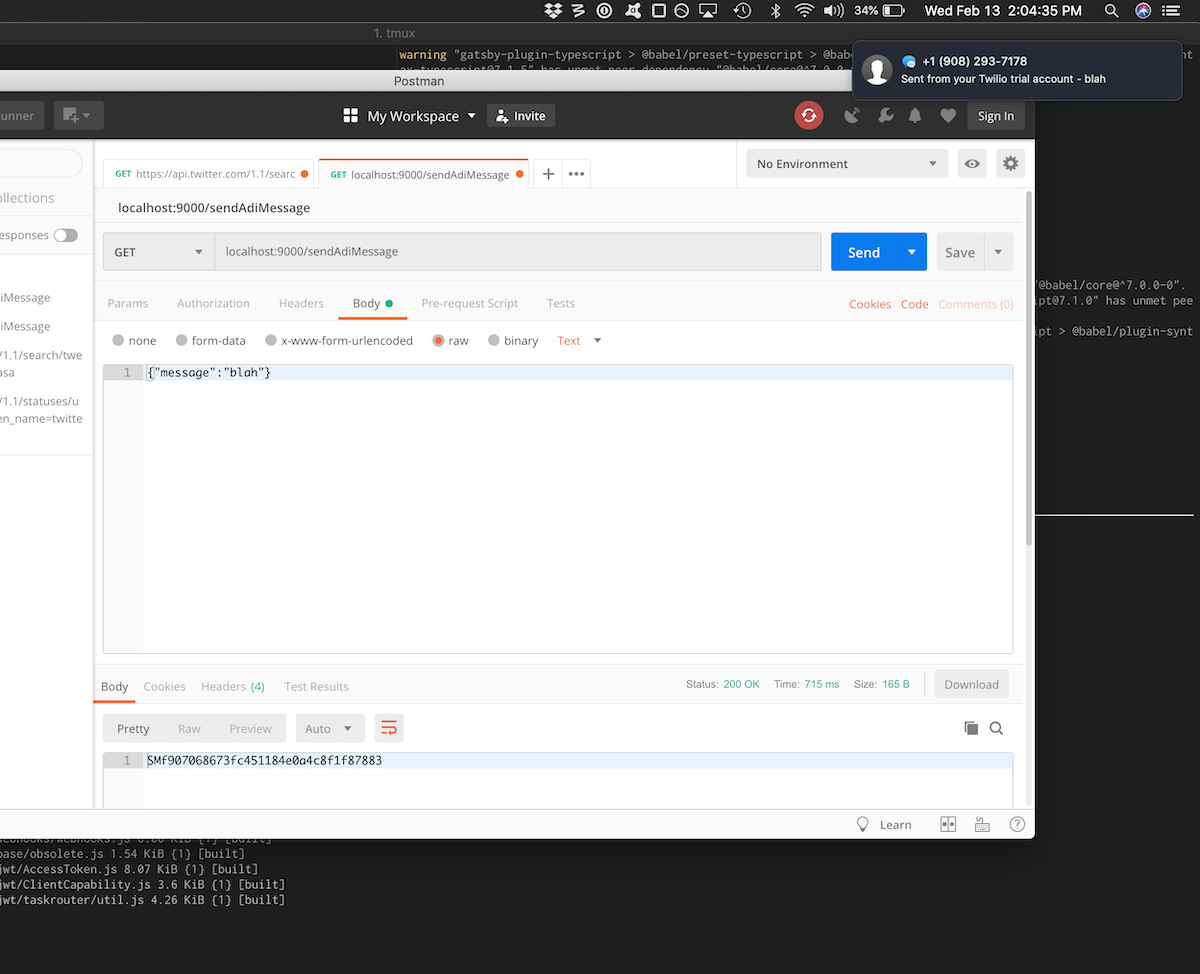
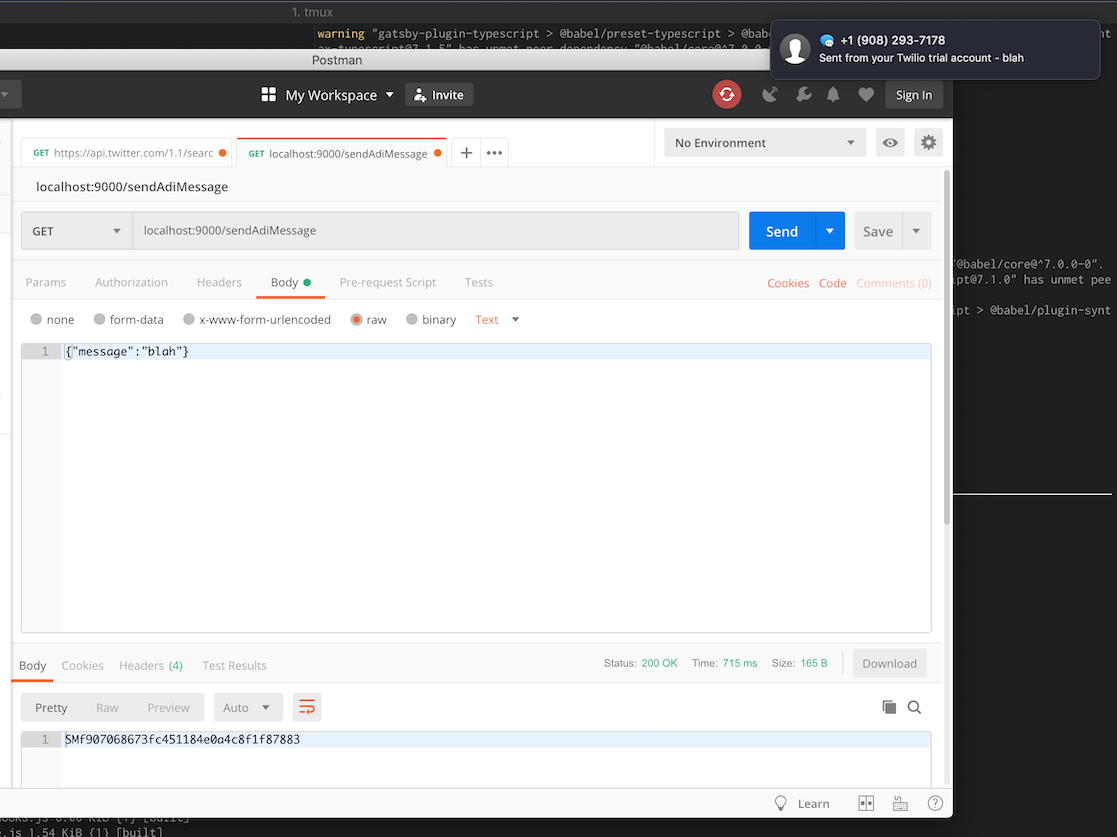
meditation 1 blogging

diff --git a/content/blog/itp/electronic-rituals/meditation-1.md b/content/blog/itp/electronic-rituals/meditation-1.md
@@ -5,20 +5,34 @@ date: "2019-02-13"
 
 ### Walking rituals for creatives
 
-My first meditation explores the ritual act of walking as a creative tool. Walking around helps me (and many others) think better when faced with creative blocks. It allows us to make new connections, process/digest our ideas, develop an internal dialogue, and get inspired by serendipitous events in the world.
+My first meditation explores the ritual act of walking as a creative tool. Walking around helps me (and many others) think better when faced with creative blocks. It allows us to make new connections, process/digest our ideas, develop an internal dialogue, and get inspired by serendipitous events in the world. There is a well-established ritualized practice of walking meditation which I first read about in _The Wisdom of Yoga_ last year. This practice aims to bring mindfulness to the practitioner; for this assignment, my goals are a little different...
 
-I have imagined and prototyped a technology-enabled extension to this ritual which allows my friends to send me anonymous messages as guidance or inspiration on my creative walks. This idea is inspired by event scores and conceptual performance art (which I researched a bit last semester for _Content and its Discontents_). As the performer of the ritual, in addition to processing the sights, sounds, and smells of the world around me, I can also use the information sent to me through an online web form which becomes available once I "start" a walk.
+I have imagined and prototyped a technology-enabled extension to the "creative walk" ritual which allows my friends to send me anonymous messages as guidance or inspiration during the walk. This idea is inspired by event scores and conceptual performance art (which I researched a bit last semester for [Content and its Discontents](../../content-and-its-discontents/ar-study)). As the performer of the ritual, in addition to processing the sights, sounds, and smells of the world around me, I can also use the information sent to me through an online web form which becomes available once I "start" a walk.
 
-In this prototype, I trigger the ritual and start the walk by checking into Washington Square Park on Foursquare. Users to visit the [walking ritual web page](/projects/electronic-rituals/walking-ritual) will then see that "Adi is currently walking around" and are prompted to send an anonymous message. This sends me a text via the Twilio API and I can respond (in the real world, not via message) as I wish.
+In this prototype, I trigger the ritual and start the walk by checking into Washington Square Park on Foursquare. Users to visit the [walking ritual web page](/projects/electronic-rituals/walking-ritual) then see that "Adi is currently walking around" and are prompted to send an anonymous message. This sends me a text via the Twilio API and I can respond (in the real world, not via message) as I wish.
+
+Screenshot of the web form here (in case I take it down later):
+
+![screenshot](meditation-1-screenshot.png)
 
 ### Process
 
-Setting up a Twilio API account and [Netlify Lambda function](https://www.netlify.com/docs/functions/), testing the function with Postman and getting a real SMS in iMessage:
+I set up a Twilio API account and [Netlify Lambda function](https://www.netlify.com/docs/functions/) on my Gatsby static website. Here's a screenshot testing the SMS-sending function with Postman and getting a real SMS in iMessage ([basic code here](https://github.com/adidahiya/website/blob/a657573607e6532ccf3c6d9be6d03feecb7eb687/server/functions/sendAdiMessage.js)):
 
 ![process-1](meditation-1-process-1.png)
 
 I also set up a Foursquare API account and wrote the Netlify Lambda function, but had some issues with authentication which I am sure I could work out if I spent a few more hours on debugging. I prioritized enacting the minimum viable version of the ritual over getting this technical part working.
 
-Walking around looked like this:
+The logistics of the first enactment of this ritual were pretty rushed; I sent an email to 20 friends with a link to the [interactive page](/projects/electronic-rituals/walking-ritual) when I started the walk. I told them to think of it as "a performance with an event score partially determined by you, my friends" to help them along.
+
+My view of walking into Washington Square Park on Feb 13, 2019 looked like this:
 
 <iframe src="https://player.vimeo.com/video/317114111?loop=1&title=0&byline=0&portrait=0" width="640" height="360" frameborder="0" webkitallowfullscreen mozallowfullscreen allowfullscreen></iframe>
+
+I only got two interactions during this first enactment. One person told me to look at a tree and another told me to walk in a circle. The first one was a little interesting since I had been looking down at my feet while walking, mostly to avoid stepping in puddles (yesterday's snow was thawing). Looking up is a good change in perspective.
+
+### Reflections
+
+- Most of this electronic ritual could be done with broadcast platforms like Instagram Stories. I could post a poll and take my followers' suggestions on what to do during my creative walk.
+- I deliberately designed the electronic interaction to be anonymous in order to promote more interesting suggestions from my friends. This is not possible with Instagram. I could have made the whole thing happen over SMS, but then my Twilio app would know the phone numbers of those sending messages and I couldn't guarantee my friends' anonymity (I could secretly be storing their numbers and looking them up). On the other hand, anonymity of course has the potential for abuse. If my link was shared broadly, it would be easy for someone to spam me and run down my Twilio account balance.
+- This ritual needs a better broadcast mechanism. Perhaps my system could text my friends with a link to the web page when it detects that I check into Washington Square Park. But then I'd also need to think about other location triggers... I go on "creative walks" near my apartment in Brooklyn, too.
